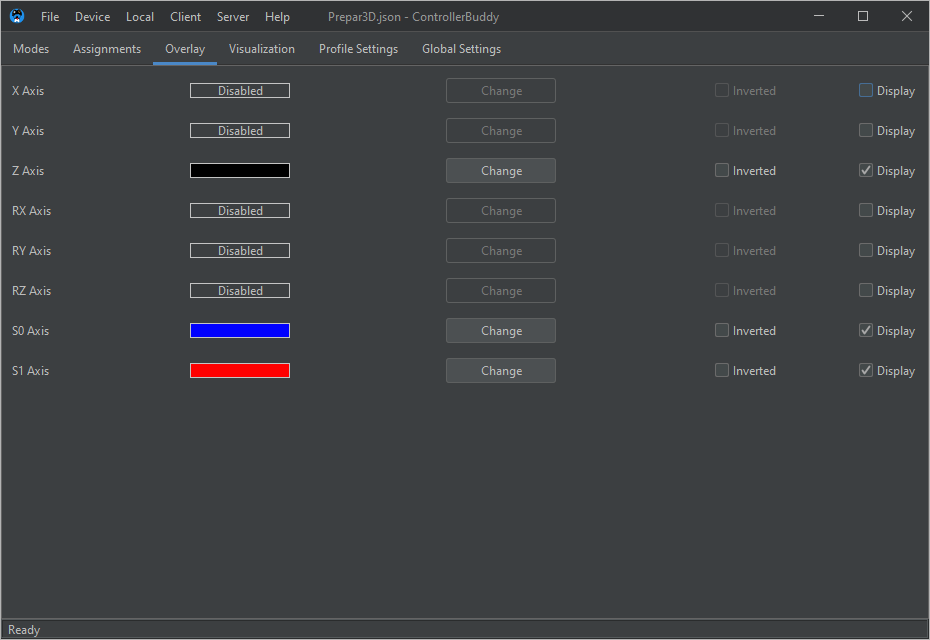
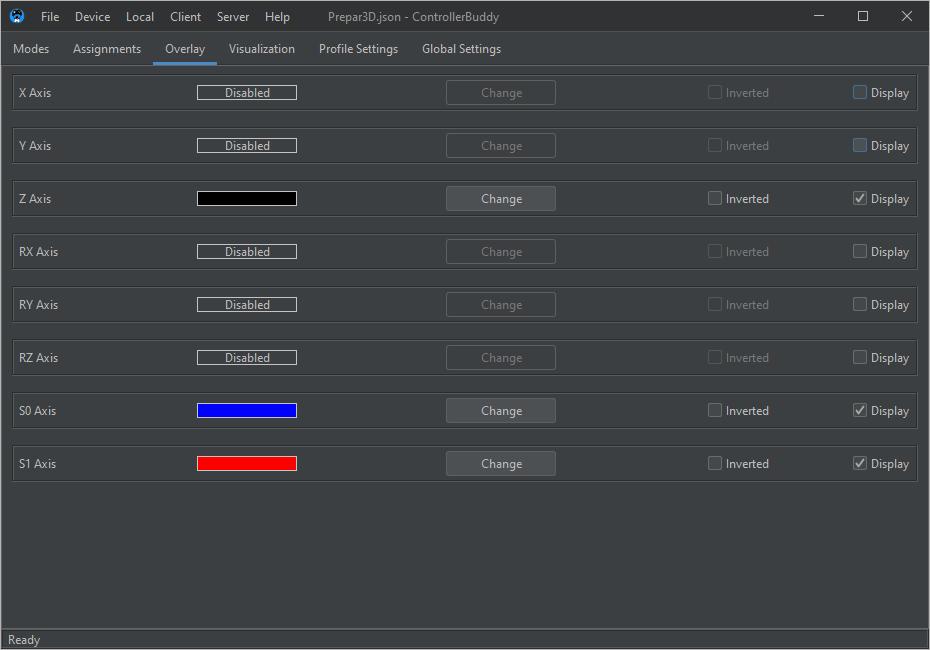
Improved cosmetics of Modes and Overlay tabs

diff --git a/src/main/java/de/bwravencl/controllerbuddy/gui/Main.java b/src/main/java/de/bwravencl/controllerbuddy/gui/Main.java
@@ -165,6 +165,7 @@ import javax.swing.SwingUtilities;
 import javax.swing.UIManager;
 import javax.swing.UnsupportedLookAndFeelException;
 import javax.swing.WindowConstants;
+import javax.swing.border.Border;
 import javax.swing.border.EtchedBorder;
 import javax.swing.event.DocumentEvent;
 import javax.swing.event.DocumentListener;
@@ -225,25 +226,6 @@ import de.bwravencl.controllerbuddy.version.Version;
 import de.bwravencl.controllerbuddy.version.VersionUtils;
 
 public final class Main implements SingletonApp {
-
-	private final class AddModeAction extends AbstractAction {
-
-		private static final long serialVersionUID = -4881923833724315489L;
-
-		private AddModeAction() {
-			putValue(NAME, strings.getString("ADD_MODE_ACTION_NAME"));
-			putValue(SHORT_DESCRIPTION, strings.getString("ADD_MODE_ACTION_DESCRIPTION"));
-		}
-
-		@Override
-		public void actionPerformed(final ActionEvent e) {
-			final var mode = new Mode();
-			input.getProfile().getModes().add(mode);
-
-			setUnsavedChanges(true);
-			updateModesPanel();
-		}
-	}
 
 	private final class ChangeVJoyDirectoryAction extends AbstractAction {
 
@@ -506,6 +488,25 @@ public final class Main implements SingletonApp {
 		@Override
 		public void actionPerformed(final ActionEvent e) {
 			newProfile();
+		}
+	}
+
+	private final class NewModeAction extends AbstractAction {
+
+		private static final long serialVersionUID = -4881923833724315489L;
+
+		private NewModeAction() {
+			putValue(NAME, strings.getString("NEW_MODE_ACTION_NAME"));
+			putValue(SHORT_DESCRIPTION, strings.getString("NEW_MODE_ACTION_DESCRIPTION"));
+		}
+
+		@Override
+		public void actionPerformed(final ActionEvent e) {
+			final var mode = new Mode();
+			input.getProfile().getModes().add(mode);
+
+			setUnsavedChanges(true);
+			updateModesPanel();
 		}
 	}
 
@@ -915,7 +916,7 @@ public final class Main implements SingletonApp {
 	private static final int DIALOG_BOUNDS_X = 100;
 	private static final int DIALOG_BOUNDS_Y = 100;
 	private static final int DIALOG_BOUNDS_WIDTH = 930;
-	private static final int DIALOG_BOUNDS_HEIGHT = 640;
+	private static final int DIALOG_BOUNDS_HEIGHT = 650;
 	private static final int SVG_VIEWBOX_MARGIN = 20;
 	private static final String SVG_DARK_THEME_TEXT_COLOR = "#FFFFFF";
 	private static final String SVG_DARK_THEME_PATH_COLOR = "#AAA";
@@ -923,6 +924,12 @@ public final class Main implements SingletonApp {
 	static final int DEFAULT_VGAP = 10;
 	public static final Dimension BUTTON_DIMENSION = new Dimension(110, 25);
 	private static final Dimension SETTINGS_LABEL_DIMENSION = new Dimension(160, 15);
+	private static final FlowLayout DEFAULT_FLOW_LAYOUT = new FlowLayout(FlowLayout.LEADING, DEFAULT_HGAP,
+			DEFAULT_VGAP);
+	private static final FlowLayout LOWER_BUTTONS_FLOW_LAYOUT = new FlowLayout(FlowLayout.RIGHT, DEFAULT_HGAP + 2, 5);
+	private static final Border LIST_ITEM_BORDER = BorderFactory.createEtchedBorder();
+	private static final Insets LIST_ITEM_INSETS = new Insets(8, DEFAULT_HGAP, 8, DEFAULT_HGAP);
+	private static final Insets LIST_ITEM_INNER_INSETS = new Insets(4, 4, 4, 4);
 	private static final String OPTION_AUTOSTART = "autostart";
 	private static final String OPTION_PROFILE = "profile";
 	private static final String OPTION_TRAY = "tray";
@@ -947,6 +954,7 @@ public final class Main implements SingletonApp {
 	private static final String CONTROLLER_SVG_FILENAME = "controller.svg";
 	static final Color TRANSPARENT = new Color(255, 255, 255, 0);
 	private static final int INVALID_JID = GLFW_JOYSTICK_1 - 1;
+
 	static {
 		options.addOption(OPTION_AUTOSTART, true, MessageFormat.format(
 				strings.getString("AUTOSTART_OPTION_DESCRIPTION"),
@@ -1123,7 +1131,7 @@ public final class Main implements SingletonApp {
 	private JPanel modesPanel;
 	private JScrollPane modesScrollPane;
 	private JPanel modesListPanel;
-	private JPanel addModePanel;
+	private JPanel newModePanel;
 	private JPanel overlayPanel;
 	private JPanel visualizationPanel;
 	private AssignmentsComponent assignmentsComponent;
@@ -1152,7 +1160,6 @@ public final class Main implements SingletonApp {
 	private FlowLayout indicatorPanelFlowLayout;
 	private JPanel indicatorPanel;
 	private Rectangle prevMaxWindowBounds;
-	private final FlowLayout defaultFlowLayout = new FlowLayout(FlowLayout.LEADING, DEFAULT_HGAP, DEFAULT_VGAP);
 	private final GridBagConstraints settingsPanelGridBagConstraints = new GridBagConstraints(0,
 			GridBagConstraints.RELATIVE, 1, 1, 0d, 0d, GridBagConstraints.FIRST_LINE_START, GridBagConstraints.NONE,
 			new Insets(0, 0, 0, 0), 0, 5);
@@ -1279,7 +1286,7 @@ public final class Main implements SingletonApp {
 		globalSettingsScrollPane.setViewportView(globalSettingsPanel);
 		tabbedPane.addTab(strings.getString("GLOBAL_SETTINGS_TAB"), null, globalSettingsScrollPane);
 
-		final var pollIntervalPanel = new JPanel(defaultFlowLayout);
+		final var pollIntervalPanel = new JPanel(DEFAULT_FLOW_LAYOUT);
 		globalSettingsPanel.add(pollIntervalPanel, settingsPanelGridBagConstraints);
 
 		final var pollIntervalLabel = new JLabel(strings.getString("POLL_INTERVAL_LABEL"));
@@ -1297,7 +1304,7 @@ public final class Main implements SingletonApp {
 		pollIntervalPanel.add(pollIntervalSpinner);
 
 		if (isWindows) {
-			final var vJoyDirectoryPanel = new JPanel(defaultFlowLayout);
+			final var vJoyDirectoryPanel = new JPanel(DEFAULT_FLOW_LAYOUT);
 			globalSettingsPanel.add(vJoyDirectoryPanel, settingsPanelGridBagConstraints);
 
 			final var vJoyDirectoryLabel = new JLabel(strings.getString("VJOY_DIRECTORY_LABEL"));
@@ -1311,7 +1318,7 @@ public final class Main implements SingletonApp {
 			final var vJoyDirectoryButton = new JButton(new ChangeVJoyDirectoryAction());
 			vJoyDirectoryPanel.add(vJoyDirectoryButton);
 
-			final var vJoyDevicePanel = new JPanel(defaultFlowLayout);
+			final var vJoyDevicePanel = new JPanel(DEFAULT_FLOW_LAYOUT);
 			globalSettingsPanel.add(vJoyDevicePanel, settingsPanelGridBagConstraints);
 
 			final var vJoyDeviceLabel = new JLabel(strings.getString("VJOY_DEVICE_LABEL"));
@@ -1327,7 +1334,7 @@ public final class Main implements SingletonApp {
 					e -> preferences.putInt(PREFERENCES_VJOY_DEVICE, (int) ((JSpinner) e.getSource()).getValue()));
 			vJoyDevicePanel.add(vJoyDeviceSpinner);
 
-			final var hostPanel = new JPanel(defaultFlowLayout);
+			final var hostPanel = new JPanel(DEFAULT_FLOW_LAYOUT);
 			globalSettingsPanel.add(hostPanel, settingsPanelGridBagConstraints);
 
 			final var hostLabel = new JLabel(strings.getString("HOST_LABEL"));
@@ -1341,7 +1348,7 @@ public final class Main implements SingletonApp {
 			hostPanel.add(hostTextField);
 		}
 
-		final var portPanel = new JPanel(defaultFlowLayout);
+		final var portPanel = new JPanel(DEFAULT_FLOW_LAYOUT);
 		globalSettingsPanel.add(portPanel, settingsPanelGridBagConstraints);
 
 		final var portLabel = new JLabel(strings.getString("PORT_LABEL"));
@@ -1357,7 +1364,7 @@ public final class Main implements SingletonApp {
 				e -> preferences.putInt(PREFERENCES_PORT, (int) ((JSpinner) e.getSource()).getValue()));
 		portPanel.add(portSpinner);
 
-		final var timeoutPanel = new JPanel(defaultFlowLayout);
+		final var timeoutPanel = new JPanel(DEFAULT_FLOW_LAYOUT);
 		globalSettingsPanel.add(timeoutPanel, settingsPanelGridBagConstraints);
 
 		final var timeoutLabel = new JLabel(strings.getString("TIMEOUT_LABEL"));
@@ -1374,7 +1381,7 @@ public final class Main implements SingletonApp {
 				e -> preferences.putInt(PREFERENCES_TIMEOUT, (int) ((JSpinner) e.getSource()).getValue()));
 		timeoutPanel.add(timeoutSpinner);
 
-		final var darkThemePanel = new JPanel(defaultFlowLayout);
+		final var darkThemePanel = new JPanel(DEFAULT_FLOW_LAYOUT);
 		globalSettingsPanel.add(darkThemePanel, settingsPanelGridBagConstraints);
 
 		final var darkThemeLabel = new JLabel(strings.getString("DARK_THEME_LABEL"));
@@ -1391,7 +1398,7 @@ public final class Main implements SingletonApp {
 		darkThemePanel.add(darkThemeCheckBox);
 
 		if (isWindows) {
-			final var preventPowerSaveModeSettingsPanel = new JPanel(defaultFlowLayout);
+			final var preventPowerSaveModeSettingsPanel = new JPanel(DEFAULT_FLOW_LAYOUT);
 			globalSettingsPanel.add(preventPowerSaveModeSettingsPanel, settingsPanelGridBagConstraints);
 
 			final var preventPowerSaveModeLabel = new JLabel(strings.getString("POWER_SAVE_MODE_LABEL"));
@@ -2004,11 +2011,11 @@ public final class Main implements SingletonApp {
 			modesScrollPane = new JScrollPane();
 			modesPanel.add(modesScrollPane, BorderLayout.CENTER);
 
-			addModePanel = new JPanel(new FlowLayout(FlowLayout.RIGHT));
-			final var addButton = new JButton(new AddModeAction());
-			addButton.setPreferredSize(BUTTON_DIMENSION);
-			addModePanel.add(addButton);
-			modesPanel.add(addModePanel, BorderLayout.SOUTH);
+			newModePanel = new JPanel(LOWER_BUTTONS_FLOW_LAYOUT);
+			final var newModeButton = new JButton(new NewModeAction());
+			newModeButton.setPreferredSize(BUTTON_DIMENSION);
+			newModePanel.add(newModeButton);
+			modesPanel.add(newModePanel, BorderLayout.SOUTH);
 
 			assignmentsComponent = new AssignmentsComponent(this);
 			tabbedPane.insertTab(strings.getString("ASSIGNMENTS_TAB"), null, assignmentsComponent, null,
@@ -2054,7 +2061,7 @@ public final class Main implements SingletonApp {
 				svgCanvas.setBackground(TRANSPARENT);
 				visualizationPanel.add(new JScrollPane(svgCanvas), BorderLayout.CENTER);
 
-				final var exportPanel = new JPanel(new FlowLayout(FlowLayout.RIGHT));
+				final var exportPanel = new JPanel(LOWER_BUTTONS_FLOW_LAYOUT);
 				final var exportButton = new JButton(new ExportAction());
 				exportButton.setPreferredSize(BUTTON_DIMENSION);
 				exportPanel.add(exportButton);
@@ -2475,43 +2482,45 @@ public final class Main implements SingletonApp {
 
 		modesListPanel.removeAll();
 
+		final var buttonGridBagConstraints = new GridBagConstraints(4, GridBagConstraints.RELATIVE, 1, 1, 0d, 0d,
+				GridBagConstraints.CENTER, GridBagConstraints.NONE, LIST_ITEM_INNER_INSETS, 0, 0);
+
 		final var modes = input.getProfile().getModes();
 		for (var i = 0; i < modes.size(); i++) {
 			final var mode = modes.get(i);
 
 			final var modePanel = new JPanel(new GridBagLayout());
-			modesListPanel.add(modePanel,
-					new GridBagConstraints(0, GridBagConstraints.RELATIVE, 1, 1, 0d, 0d,
-							GridBagConstraints.FIRST_LINE_START, GridBagConstraints.HORIZONTAL,
-							new Insets(DEFAULT_VGAP, DEFAULT_HGAP, 0, DEFAULT_HGAP), 0, 5));
+			modePanel.setBorder(LIST_ITEM_BORDER);
+			modesListPanel.add(modePanel, new GridBagConstraints(0, GridBagConstraints.RELATIVE, 1, 1, 0d, 0d,
+					GridBagConstraints.FIRST_LINE_START, GridBagConstraints.HORIZONTAL, LIST_ITEM_INSETS, 0, 0));
 
 			final var modeNoLabel = new JLabel(MessageFormat.format(strings.getString("MODE_LABEL_NO"), i + 1));
 			modeNoLabel.setPreferredSize(new Dimension(100, 15));
-			modePanel.add(modeNoLabel, new GridBagConstraints(0, 0, 1, 1, 0d, 0d, GridBagConstraints.BASELINE,
-					GridBagConstraints.NONE, new Insets(0, 0, 0, 0), 0, 0));
+			modePanel.add(modeNoLabel, new GridBagConstraints(0, 0, 1, 1, 0d, 0d, GridBagConstraints.CENTER,
+					GridBagConstraints.NONE, LIST_ITEM_INNER_INSETS, 0, 0));
 
 			modePanel.add(Box.createGlue(), new GridBagConstraints(1, GridBagConstraints.RELATIVE, 1, 1, 1d, 1d,
-					GridBagConstraints.BASELINE, GridBagConstraints.NONE, new Insets(0, 0, 0, 0), 0, 0));
+					GridBagConstraints.CENTER, GridBagConstraints.NONE, LIST_ITEM_INNER_INSETS, 0, 0));
 
 			final var descriptionTextField = new JTextField(mode.getDescription(), 20);
-			modePanel.add(descriptionTextField, new GridBagConstraints(2, 0, 1, 1, 1d, 1d, GridBagConstraints.BASELINE,
-					GridBagConstraints.NONE, new Insets(0, 0, 0, 0), 0, 0));
+			modePanel.add(descriptionTextField, new GridBagConstraints(2, 0, 1, 1, 1d, 1d, GridBagConstraints.CENTER,
+					GridBagConstraints.NONE, LIST_ITEM_INNER_INSETS, 0, 0));
 
 			final var setModeDescriptionAction = new SetModeDescriptionAction(mode, descriptionTextField);
 			descriptionTextField.addActionListener(setModeDescriptionAction);
 			descriptionTextField.getDocument().addDocumentListener(setModeDescriptionAction);
 
 			modePanel.add(Box.createGlue(), new GridBagConstraints(3, GridBagConstraints.RELATIVE, 1, 1, 1d, 1d,
-					GridBagConstraints.BASELINE, GridBagConstraints.NONE, new Insets(0, 0, 0, 0), 0, 0));
+					GridBagConstraints.CENTER, GridBagConstraints.NONE, LIST_ITEM_INNER_INSETS, 0, 0));
 
 			if (Profile.defaultMode.equals(mode) || OnScreenKeyboard.onScreenKeyboardMode.equals(mode)) {
 				descriptionTextField.setEditable(false);
-				modePanel.add(Box.createHorizontalStrut(BUTTON_DIMENSION.width));
+				descriptionTextField.setFocusable(false);
+				modePanel.add(Box.createHorizontalStrut(BUTTON_DIMENSION.width), buttonGridBagConstraints);
 			} else {
 				final var deleteButton = new JButton(new RemoveModeAction(mode));
 				deleteButton.setPreferredSize(BUTTON_DIMENSION);
-				modePanel.add(deleteButton, new GridBagConstraints(4, GridBagConstraints.RELATIVE, 1, 1, 0d, 0d,
-						GridBagConstraints.BASELINE, GridBagConstraints.NONE, new Insets(0, 0, 0, 0), 0, 0));
+				modePanel.add(deleteButton, buttonGridBagConstraints);
 			}
 		}
 
@@ -2603,16 +2612,15 @@ public final class Main implements SingletonApp {
 		final var borderColor = UIManager.getColor("Component.borderColor");
 		for (final var virtualAxis : Input.VirtualAxis.values()) {
 			final var indicatorPanel = new JPanel(new GridBagLayout());
-			indicatorsListPanel.add(indicatorPanel,
-					new GridBagConstraints(0, GridBagConstraints.RELATIVE, 1, 1, 0d, 0d,
-							GridBagConstraints.FIRST_LINE_START, GridBagConstraints.HORIZONTAL,
-							new Insets(DEFAULT_VGAP, DEFAULT_HGAP, 0, DEFAULT_HGAP), 0, 5));
+			indicatorPanel.setBorder(LIST_ITEM_BORDER);
+			indicatorsListPanel.add(indicatorPanel, new GridBagConstraints(0, GridBagConstraints.RELATIVE, 1, 1, 0d, 0d,
+					GridBagConstraints.FIRST_LINE_START, GridBagConstraints.HORIZONTAL, LIST_ITEM_INSETS, 0, 0));
 
 			final var virtualAxisLabel = new JLabel(
 					MessageFormat.format(strings.getString("AXIS_LABEL"), virtualAxis.toString()));
 			virtualAxisLabel.setPreferredSize(new Dimension(100, 15));
-			indicatorPanel.add(virtualAxisLabel, new GridBagConstraints(0, 0, 1, 1, 0d, 0d, GridBagConstraints.BASELINE,
-					GridBagConstraints.NONE, new Insets(0, 0, 0, 0), 0, 0));
+			indicatorPanel.add(virtualAxisLabel, new GridBagConstraints(0, 0, 1, 1, 0d, 0d, GridBagConstraints.CENTER,
+					GridBagConstraints.NONE, LIST_ITEM_INNER_INSETS, 0, 0));
 
 			final var virtualAxisToOverlayAxisMap = input.getProfile().getVirtualAxisToOverlayAxisMap();
 			final var overlayAxis = virtualAxisToOverlayAxisMap.get(virtualAxis);
@@ -2628,25 +2636,25 @@ public final class Main implements SingletonApp {
 
 			colorLabel.setPreferredSize(new Dimension(100, 15));
 			colorLabel.setBorder(BorderFactory.createLineBorder(borderColor));
-			indicatorPanel.add(colorLabel, new GridBagConstraints(1, 0, 1, 1, 1d, 0d, GridBagConstraints.BASELINE,
-					GridBagConstraints.NONE, new Insets(0, 0, 0, 0), 0, 0));
+			indicatorPanel.add(colorLabel, new GridBagConstraints(1, 0, 1, 1, 1d, 0d, GridBagConstraints.CENTER,
+					GridBagConstraints.NONE, LIST_ITEM_INNER_INSETS, 0, 0));
 
 			final var colorButton = new JButton(new SelectIndicatorColorAction(virtualAxis));
 			colorButton.setPreferredSize(BUTTON_DIMENSION);
 			colorButton.setEnabled(enabled);
-			indicatorPanel.add(colorButton, new GridBagConstraints(2, 0, 1, 1, 1d, 0d, GridBagConstraints.BASELINE,
-					GridBagConstraints.NONE, new Insets(0, 0, 0, 0), 0, 0));
+			indicatorPanel.add(colorButton, new GridBagConstraints(2, 0, 1, 1, 1d, 0d, GridBagConstraints.CENTER,
+					GridBagConstraints.NONE, LIST_ITEM_INNER_INSETS, 0, 0));
 
 			final var invertedCheckBox = new JCheckBox(new InvertIndicatorAction(virtualAxis));
 			invertedCheckBox.setSelected(enabled && overlayAxis.inverted);
 			invertedCheckBox.setEnabled(enabled);
-			indicatorPanel.add(invertedCheckBox, new GridBagConstraints(3, 0, 1, 1, 1d, 0d, GridBagConstraints.BASELINE,
-					GridBagConstraints.NONE, new Insets(0, 0, 0, 0), 0, 0));
+			indicatorPanel.add(invertedCheckBox, new GridBagConstraints(3, 0, 1, 1, 1d, 0d, GridBagConstraints.CENTER,
+					GridBagConstraints.NONE, LIST_ITEM_INNER_INSETS, 0, 0));
 
 			final var displayCheckBox = new JCheckBox(new DisplayIndicatorAction(virtualAxis));
 			displayCheckBox.setSelected(enabled);
 			indicatorPanel.add(displayCheckBox, new GridBagConstraints(4, GridBagConstraints.RELATIVE, 1, 1, 0d, 0d,
-					GridBagConstraints.BASELINE, GridBagConstraints.NONE, new Insets(0, 0, 0, 0), 0, 0));
+					GridBagConstraints.CENTER, GridBagConstraints.NONE, LIST_ITEM_INNER_INSETS, 0, 0));
 		}
 
 		indicatorsListPanel.add(Box.createGlue(), new GridBagConstraints(0, GridBagConstraints.RELATIVE, 1, 1, 1d, 1d,
@@ -2659,7 +2667,7 @@ public final class Main implements SingletonApp {
 		final var panelsEnabled = !isLocalThreadActive() && !isClientThreadActive() && !isServerThreadActive();
 
 		setEnabledRecursive(modesListPanel, panelsEnabled);
-		setEnabledRecursive(addModePanel, panelsEnabled);
+		setEnabledRecursive(newModePanel, panelsEnabled);
 
 		if (assignmentsComponent != null)
 			assignmentsComponent.setEnabled(panelsEnabled);
@@ -2680,7 +2688,7 @@ public final class Main implements SingletonApp {
 		profileSettingsPanel.removeAll();
 		showVrOverlayCheckBox = null;
 
-		final var keyRepeatIntervalPanel = new JPanel(defaultFlowLayout);
+		final var keyRepeatIntervalPanel = new JPanel(DEFAULT_FLOW_LAYOUT);
 		profileSettingsPanel.add(keyRepeatIntervalPanel, settingsPanelGridBagConstraints);
 
 		final var keyRepeatIntervalLabel = new JLabel(strings.getString("KEY_REPEAT_INTERVAL_LABEL"));
@@ -2703,7 +2711,7 @@ public final class Main implements SingletonApp {
 		keyRepeatIntervalPanel.add(keyRepeatIntervalSpinner);
 
 		if (Toolkit.getDefaultToolkit().isAlwaysOnTopSupported()) {
-			final var overlaySettingsPanel = new JPanel(defaultFlowLayout);
+			final var overlaySettingsPanel = new JPanel(DEFAULT_FLOW_LAYOUT);
 			profileSettingsPanel.add(overlaySettingsPanel, settingsPanelGridBagConstraints);
 
 			final var overlayLabel = new JLabel(strings.getString("OVERLAY_LABEL"));
@@ -2728,7 +2736,7 @@ public final class Main implements SingletonApp {
 			overlaySettingsPanel.add(showOverlayCheckBox);
 
 			if (isWindows) {
-				final var vrOverlaySettingsPanel = new JPanel(defaultFlowLayout);
+				final var vrOverlaySettingsPanel = new JPanel(DEFAULT_FLOW_LAYOUT);
 				profileSettingsPanel.add(vrOverlaySettingsPanel, settingsPanelGridBagConstraints);
 
 				final var vrOverlayLabel = new JLabel(strings.getString("VR_OVERLAY_LABEL"));
